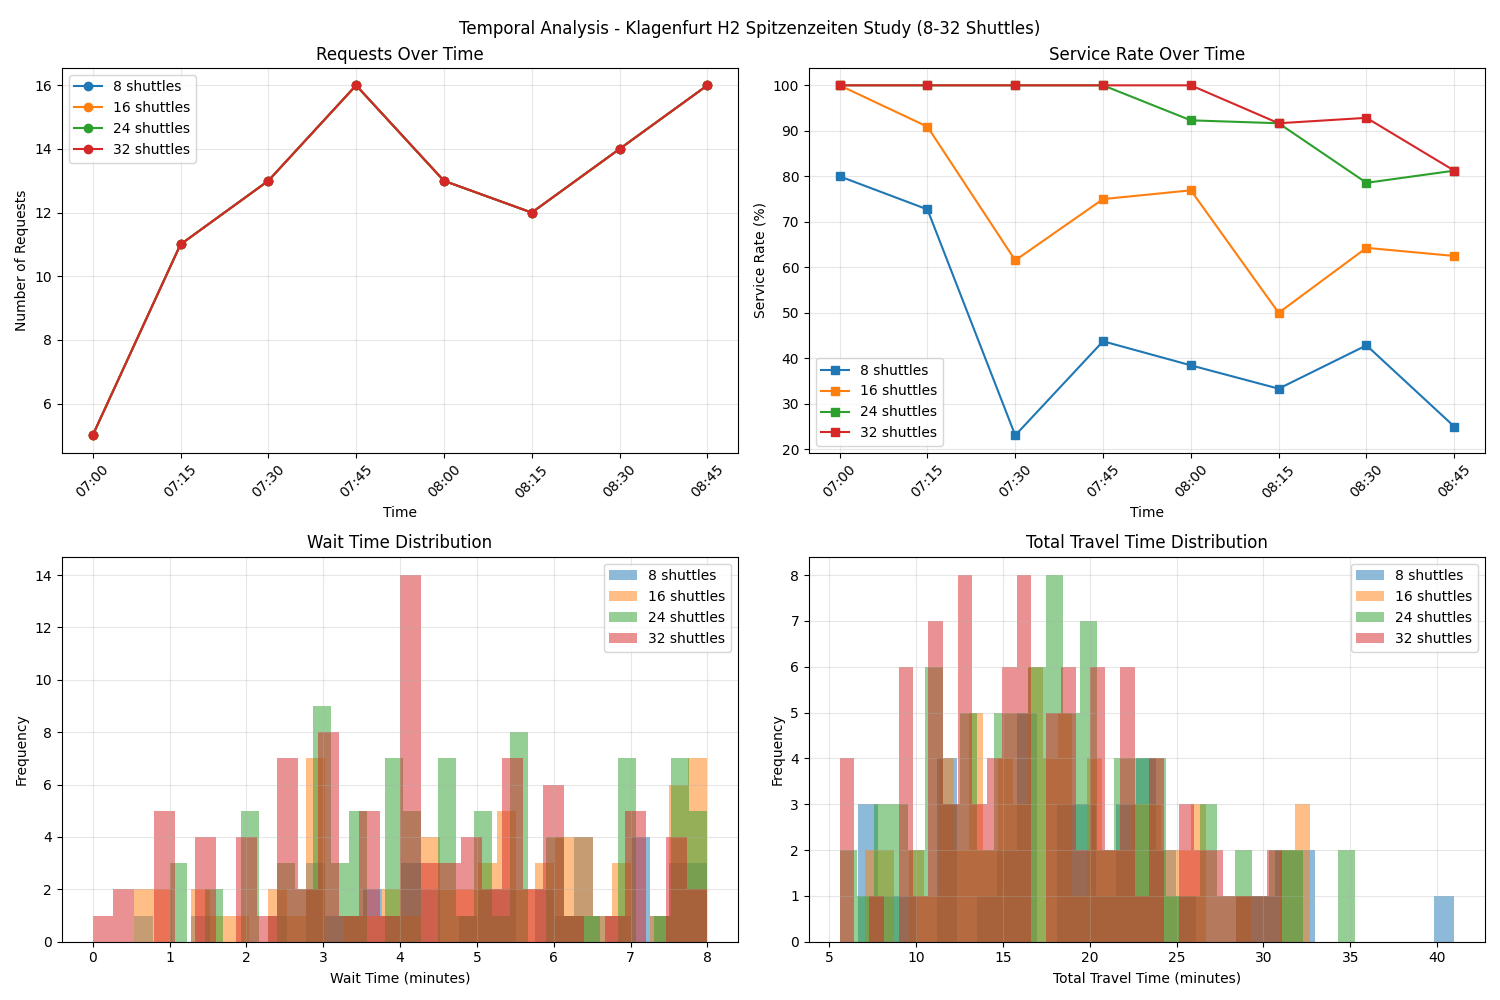
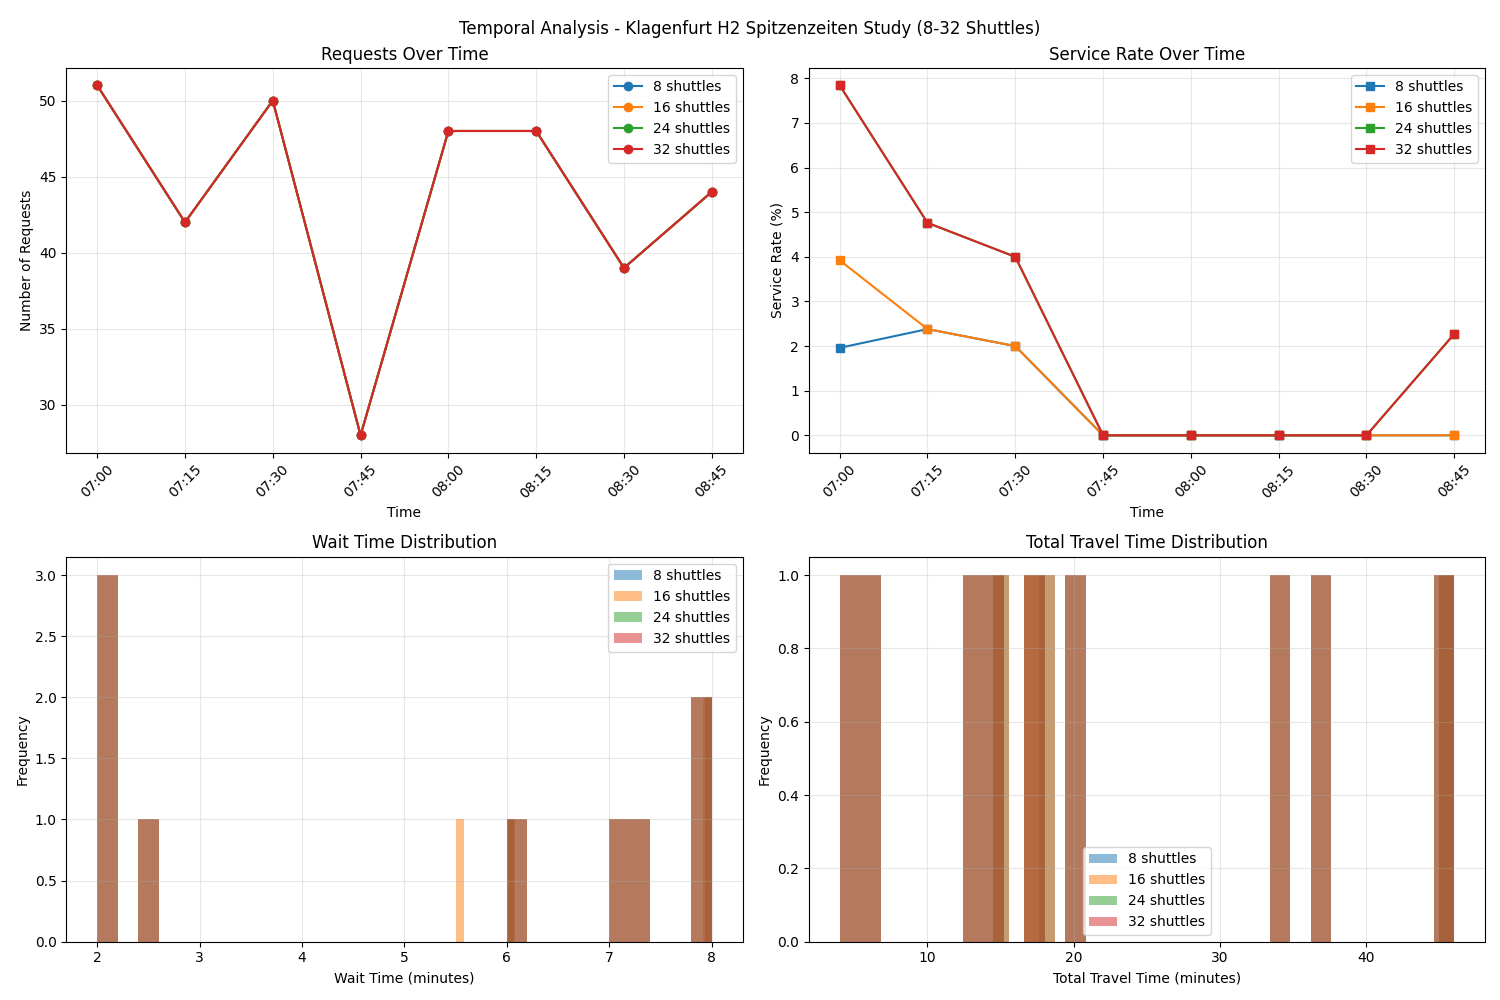
Clean up root-level clutter: archive dead files, fix broken/stale scripts
Archive (unreferenced, superseded, or job already done):
- First-week Munich exploration (munich_analysis.ipynb, plot_munich_temporal.py,
  munich_scenarios_comparison.csv) - abandoned before the pivot to Klagenfurt,
  distinct from the still-active studies/munich_case_study/ upstream example
- Root notebooks/ (3 MOIA notebooks) - superseded by
  studies/flipflop_drt_integration_pilot/analysis/
- Three network/zone setup scripts whose job is done and whose own input file
  (klagenfurt_network.gpkg) is itself already archived
- klagenfurt_h1_spitzenzeiten_analysis.py - found to be internally broken:
  three concatenated main() definitions (only the last ever ran) looking for
  nonexistent files/paths; fully superseded by the working
  studies/klagenfurt_h1_spitzenzeiten_case_study/analysis/*.ipynb

Relocate (still active, moved into their case study folders, paths fixed
and verified by actually running them):
- klagenfurt_h2_spitzenzeiten_analysis.py -> studies/klagenfurt_h2_spitzenzeiten_case_study/
- create_klagenfurt_map_with_basemap.py -> studies/klagenfurt_h1_spitzenzeiten_case_study/
  (also switched from cwd-relative to __file__-anchored paths)

Delete: empty, untracked root scenarios/ directory.

Fix documentation: README.md had duplicated "Installation"/"Simulationen
ausführen" sections, one copy with broken escaped-backtick code fences
instead of real fences - consolidated into one. Also found and fixed stale
[…]

diff --git a/studies/klagenfurt_h1_spitzenzeiten_case_study/create_klagenfurt_map_with_basemap.py b/studies/klagenfurt_h1_spitzenzeiten_case_study/create_klagenfurt_map_with_basemap.py
@@ -3,6 +3,8 @@ Create Klagenfurt zone map with OpenStreetMap basemap
 Shows streets, buildings, and the university area with zone overlays
 """
 
+import os
+
 import geopandas as gpd
 import pandas as pd
 import matplotlib.pyplot as plt
@@ -11,10 +13,13 @@ from matplotlib.patches import Patch
 
 from shapely.geometry import Point
 
+ROOT_DIR = os.path.abspath(os.path.join(os.path.dirname(__file__), "..", ".."))
+STUDY_DIR = os.path.dirname(os.path.abspath(__file__))
+
 # 1. Load network and nodes
 print("Loading network data...")
-network = gpd.read_file("klagenfurt_network_extended.gpkg")  # Use extended network
-nodes = pd.read_csv("data/networks/klagenfurt_h1_spitzenzeiten/base/nodes.csv")
+network = gpd.read_file(os.path.join(ROOT_DIR, "klagenfurt_network_extended.gpkg"))  # Use extended network
+nodes = pd.read_csv(os.path.join(ROOT_DIR, "data", "networks", "klagenfurt_h1_spitzenzeiten", "base", "nodes.csv"))
 
 # 2. Create GeoDataFrame from nodes (currently in WGS84)
 nodes_gdf = gpd.GeoDataFrame(
@@ -139,7 +144,8 @@ ax.text(
 plt.tight_layout()
 
 # 15. Save
-output_file = 'klagenfurt_zones_map_with_basemap.png'
+os.makedirs(os.path.join(STUDY_DIR, "results"), exist_ok=True)
+output_file = os.path.join(STUDY_DIR, "results", "klagenfurt_zones_map_with_basemap.png")
 plt.savefig(output_file, dpi=200, bbox_inches='tight')
 print(f"\n✅ Karte gespeichert: {output_file}")
 print(f"   - {len(nodes_gdf)} Knoten")

diff --git a/studies/klagenfurt_h2_spitzenzeiten_case_study/klagenfurt_h2_spitzenzeiten_analysis.py b/studies/klagenfurt_h2_spitzenzeiten_case_study/klagenfurt_h2_spitzenzeiten_analysis.py
@@ -232,7 +232,7 @@ class KlagenfurtH2SpitzenzeitenAnalysis:
 if __name__ == "__main__":
     # Set up paths
     base_dir = os.path.dirname(os.path.abspath(__file__))
-    results_dir = os.path.join(base_dir, "studies", "klagenfurt_h2_spitzenzeiten_case_study", "results")
+    results_dir = os.path.join(base_dir, "results")
 
     # Create analysis instance
     analysis = KlagenfurtH2SpitzenzeitenAnalysis(results_dir)

diff --git a/archive/ARCHIVE_MANIFEST.md b/archive/ARCHIVE_MANIFEST.md
@@ -8,6 +8,10 @@ This manifest records post-cleanup archival placement and provenance (evidence t
 - `archive/figures/*`: visual outputs grouped by city/experiment family.
 - `archive/docs/readme_superseded`: superseded root README variants.
 - `archive/data/demand/*`: superseded or dormant demand datasets (inputs no longer used by active study runners).
+- `archive/network_setup_scripts/*`: one-time network/zone preparation scripts and notebooks whose output already exists in `data/` and whose own input files are themselves archived; not meant to be re-run.
+- `archive/legacy_munich_exploration/*`: first-week Munich exploration (Sept 2025), abandoned when the project moved to Klagenfurt. Distinct from `studies/munich_case_study/`, the upstream FleetPy example, which remains active.
+- `archive/legacy_moia_notebooks/*`: May 2026 MOIA exploration notebooks (root `notebooks/` dir), superseded by the properly-homed analysis notebooks in `studies/flipflop_drt_integration_pilot/analysis/`.
+- `archive/superseded_scripts/*`: scripts replaced by a working equivalent elsewhere, kept for provenance only.
 
 ## Provenance Rules
 - Filename prefix (`h1_`, `h2_`, `uc2_`, `uc3_`, `klagenfurt_`) determines experiment-family assignment.
@@ -44,6 +48,29 @@ This manifest records post-cleanup archival placement and provenance (evidence t
 | `archive/data/demand/uc1_peaks/` | `data/demand/uc1_peaks/` | dormant demand dataset | no active study const_cfg references | high |
 | `archive/data/demand/SoD_demand/` | `data/demand/SoD_demand/` | dormant demand dataset | no active study const_cfg references | high |
 | `archive/data/demand/route_193_demand/` | `data/demand/route_193_demand/` | legacy example dataset | referenced only by legacy example outputs | medium |
+
+## 2026-10 Root-Level Cleanup
+
+| Archived path | Pre-cleanup path | Reason | Confidence |
+|---|---|---|---|
+| `archive/legacy_munich_exploration/munich_analysis.ipynb` | root `munich_analysis.ipynb` | abandoned exploration, not referenced anywhere else | high |
+| `archive/legacy_munich_exploration/plot_munich_temporal.py` | root `plot_munich_temporal.py` | same as above | high |
+| `archive/legacy_munich_exploration/munich_scenarios_comparison.csv` | root `munich_scenarios_comparison.csv` | same as above | high |
+| `archive/legacy_moia_notebooks/moia_additional_tests.ipynb` | root `notebooks/moia_additional_tests.ipynb` | superseded by `studies/flipflop_drt_integration_pilot/analysis/`, not referenced anywhere | high |
+| `archive/legacy_moia_notebooks/moia_minimal_variants_results.ipynb` | root `notebooks/moia_minimal_variants_results.ipynb` | same as above | high |
+| `archive/legacy_moia_notebooks/moia_vs_baseline_results.ipynb` | root `notebooks/moia_vs_baseline_results.ipynb` | same as above | high |
+| `archive/network_setup_scripts/klagenfurt_h1_spitzenzeiten_map_all.py` | root `klagenfurt_h1_spitzenzeiten_map_all.py` | reads already-archived `klagenfurt_network.gpkg`; one-time setup, job done | high |
+| `archive/network_setup_scripts/filter_klagenfurt_h1_spitzenzeiten.ipynb` | root `filter_klagenfurt_h1_spitzenzeiten.ipynb` | same as above (produced the now-archived `klagenfurt_network.gpkg`) | high |
+| `archive/network_setup_scripts/klagenfurt_h1_spitzenzeiten_zone_mapping.ipynb` | root `klagenfurt_h1_spitzenzeiten_zone_mapping.ipynb` | same as above | high |
+| `archive/superseded_scripts/klagenfurt_h1_spitzenzeiten_analysis.py` | root `klagenfurt_h1_spitzenzeiten_analysis.py` | internally broken: three concatenated `main()` definitions (only the last ever executes), which reads nonexistent `users.csv`/`vehicles.csv` and stale scenario-name paths; fully superseded by the working `studies/klagenfurt_h1_spitzenzeiten_case_study/analysis/klagenfurt_h1_spitzenzeiten_analysis.ipynb` | high |
+
+Also moved (not archived, still active — relocated into their case study folders for self-containment, paths fixed and verified working):
+- `klagenfurt_h2_spitzenzeiten_analysis.py` → `studies/klagenfurt_h2_spitzenzeiten_case_study/klagenfurt_h2_spitzenzeiten_analysis.py`
+- `create_klagenfurt_map_with_basemap.py` → `studies/klagenfurt_h1_spitzenzeiten_case_study/create_klagenfurt_map_with_basemap.py`
+
+Deleted outright (not archived — empty, untracked, no history to preserve): root `scenarios/` directory.
+
+README.md, H1_service_quality.md, and H2_minimum_fleet.md were updated to reference the new/working locations; README.md's duplicated "Installation"/"Simulationen ausführen" sections (one copy with broken escaped-backtick code fences) were also consolidated into one clean version, and stale `studies/uc2_age_based/studies/uc2_study/...` / `studies/uc3_accessibility/studies/uc3_study/...` notebook paths (left over from a pre-cleanup directory structure) were corrected.
 
 ## Uncertainty
 - Exact simulation run identifiers (timestamp/job-id linkage) are not recoverable from filenames alone. I do not know.

diff --git a/README.md b/README.md
@@ -166,7 +166,7 @@ Details siehe: [data/networks/klagenfurt_h1_spitzenzeiten/README.md](data/networ
 - **Netzwerk-Extension:** Erweitert um Lakeside Park/Universität Klagenfurt (Zone 9) für UC2-Studenten-Szenarien
 
 **⚠ Wichtiger Hinweis zur Netzwerk-Regeneration:**
-Das Netzwerk wurde von 2.099 auf 6.394 Knoten erweitert, um die Universität Klagenfurt/Lakeside Park einzuschließen. Nach jeder Netzwerk-Änderung müssen **Demand-Dateien neu generiert werden**, da alte Knoten-IDs ungültig werden. Dies erfolgt durch Neuausführung von `klagenfurt_h1_spitzenzeiten_map_all.py` oder manuell mit:
+Das Netzwerk wurde von 2.099 auf 6.394 Knoten erweitert, um die Universität Klagenfurt/Lakeside Park einzuschließen. Nach jeder Netzwerk-Änderung müssen **Demand-Dateien neu generiert werden**, da alte Knoten-IDs ungültig werden. Das einmalige Setup-Skript dafür (`klagenfurt_h1_spitzenzeiten_map_all.py`) ist archiviert (`archive/network_setup_scripts/`), da das Netzwerk bereits erweitert ist und sein Eingabe-Datensatz (`klagenfurt_network.gpkg`) ebenfalls dort liegt. Für eine erneute Demand-Generierung reicht der manuelle Weg:
 ```python
 # Demand regenerieren (100 zufällige O-D-Paare)
 python -c "import pandas as pd; import numpy as np; nodes = pd.read_csv('data/networks/klagenfurt_h1_spitzenzeiten/base/nodes.csv'); np.random.seed(42); demand = pd.DataFrame([{'Unnamed: 0': float(i), 'request_id': float(i), 'rq_time': float(np.random.randint(25200,32400)), 'start': float(np.random.choice(nodes['node_index'])), 'end': float((e:=np.random.choice(nodes['node_index'])) if e != (s:=np.random.choice(nodes['node_index'])) else np.random.choice(nodes['node_index'])), 'earliest_pickup_time': float(np.random.randint(25200,32400))} for i in range(100)]); demand.to_csv('data/demand/klagenfurt_h1_spitzenzeiten/matched/klagenfurt_h1_spitzenzeiten/demand_requests.csv', index=False)"
@@ -186,53 +186,32 @@ python -c "import pandas as pd; import numpy as np; nodes = pd.read_csv('data/ne
 - **Reoptimierungsintervall:** 30 Sekunden
 - **Nachfrage:** 100 Mobilitätsanfragen
 
-## Project Setup
-
 ## Projekt-Setup
-- Python 3.10+
+
 ### Voraussetzungen
+- Python 3.10+
 - Conda Environment
 
 ### Installation
-
-### Installation
-\`\`\`bash
-git clone https://github.com/Createdd/fleet_hypothesistests.git
 ```bash
 git clone https://github.com/Createdd/fleet_hypothesistests.git
 cd fleet_hypothesistests
-```
-\`\`\`bash
 conda env create -f environment.yml
 conda activate fleetpy
-\`\`\`
-
-3. Install dependencies:
-
-### Simulationen ausführen
-\`\`\`bash
-python run_klagenfurt_h1_spitzenzeiten.py
-python klagenfurt_h1_spitzenzeiten_analysis.py
-\`\`\`
-
-For H2 (Minimum Fleet):
-\`\`\`bash
-python run_klagenfurt_h2_spitzenzeiten.py
-python klagenfurt_h2_spitzenzeiten_analysis.py
-\`\`\`
+```
 
 ### Simulationen ausführen
 
 #### H1 (Servicequalität)
 ```bash
 python run_klagenfurt_h1_spitzenzeiten.py
-python klagenfurt_h1_spitzenzeiten_analysis.py
+jupyter notebook studies/klagenfurt_h1_spitzenzeiten_case_study/analysis/klagenfurt_h1_spitzenzeiten_analysis.ipynb
 ```
 
 #### H2 (Minimale Flotte)
 ```bash
 python run_klagenfurt_h2_spitzenzeiten.py
-python klagenfurt_h2_spitzenzeiten_analysis.py
+python studies/klagenfurt_h2_spitzenzeiten_case_study/klagenfurt_h2_spitzenzeiten_analysis.py
 ```
 
 #### UC2 (Digitale Kompetenz & Support-Maßnahmen)
@@ -244,7 +223,7 @@ Die Simulation erzeugt Ergebnisdateien für alle vier Szenarien (baseline, phone
 
 Für die Analyse und Visualisierung:
 ```bash
-jupyter notebook studies/uc2_age_based/studies/uc2_study/analysis/uc2_analysis.ipynb
+jupyter notebook studies/uc2_age_based/analysis/uc2_analysis.ipynb
 ```
 Das Notebook aggregiert die Ergebnisse und zeigt die wichtigsten Kennzahlen und Vergleiche an.
 
@@ -257,7 +236,7 @@ Die Simulation testet 4 Flottenzusammensetzungen (baseline: 0% Gelenkbusse, mixe
 
 Für die Analyse und Visualisierung:
 ```bash
-jupyter notebook studies/uc3_accessibility/studies/uc3_study/analysis/uc3_analysis.ipynb
+jupyter notebook studies/uc3_accessibility/analysis/uc3_analysis.ipynb
 ```
 Das Notebook zeigt Trade-offs zwischen Kosten und Servicerate für verschiedene Anteile barrierefreier Fahrzeuge.
 

diff --git a/H1_service_quality.md b/H1_service_quality.md
@@ -68,7 +68,7 @@ Ziel: Optimierung der Servicequalität bei akzeptabler Kosteneffizienz.
 ### Simulation ausführen
 ```bash
 python run_klagenfurt_h1_spitzenzeiten.py
-python klagenfurt_h1_spitzenzeiten_analysis.py
+jupyter notebook studies/klagenfurt_h1_spitzenzeiten_case_study/analysis/klagenfurt_h1_spitzenzeiten_analysis.ipynb
 ```
 
 ## Hinweis zu Kostenanalyse

diff --git a/H2_minimum_fleet.md b/H2_minimum_fleet.md
@@ -194,7 +194,7 @@ Im On-Demand-Ridepooling ist **räumliche Abdeckung wichtiger als Sitzplatzkapaz
 python run_klagenfurt_h2_spitzenzeiten.py
 
 # Analyse durchführen
-python klagenfurt_h2_spitzenzeiten_analysis.py
+python studies/klagenfurt_h2_spitzenzeiten_case_study/klagenfurt_h2_spitzenzeiten_analysis.py
 ```
 
 ## Kategorisierung der Erkenntnisse
